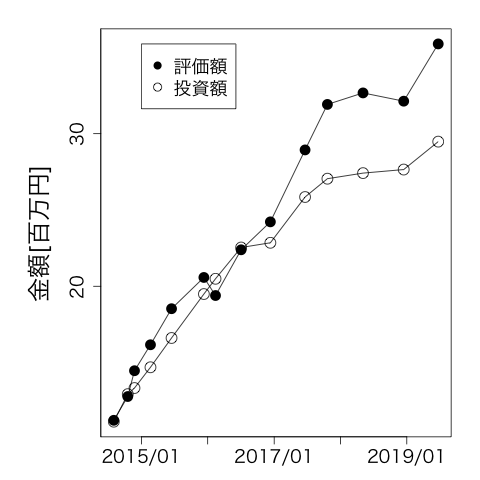
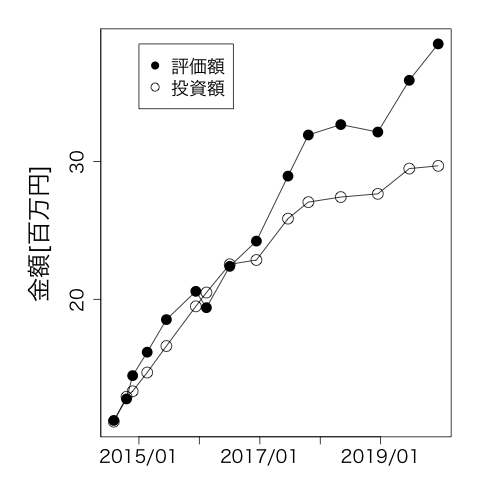
update

diff --git a/investment_return.md b/investment_return.md
@@ -26,4 +26,4 @@ permalink: /investment_return/
 5/5/2018|27,415,922|32,671,614|5,255,692|19.17%
 12/15/2018|27,649,048|32,130,102|4,481,055|16.21%
 6/23/2019|29,478,847|35,883,544|6,404,697|21.73%
-
+12/15/2019|29,678,652|38,522,275|8,843,622|29.80%
